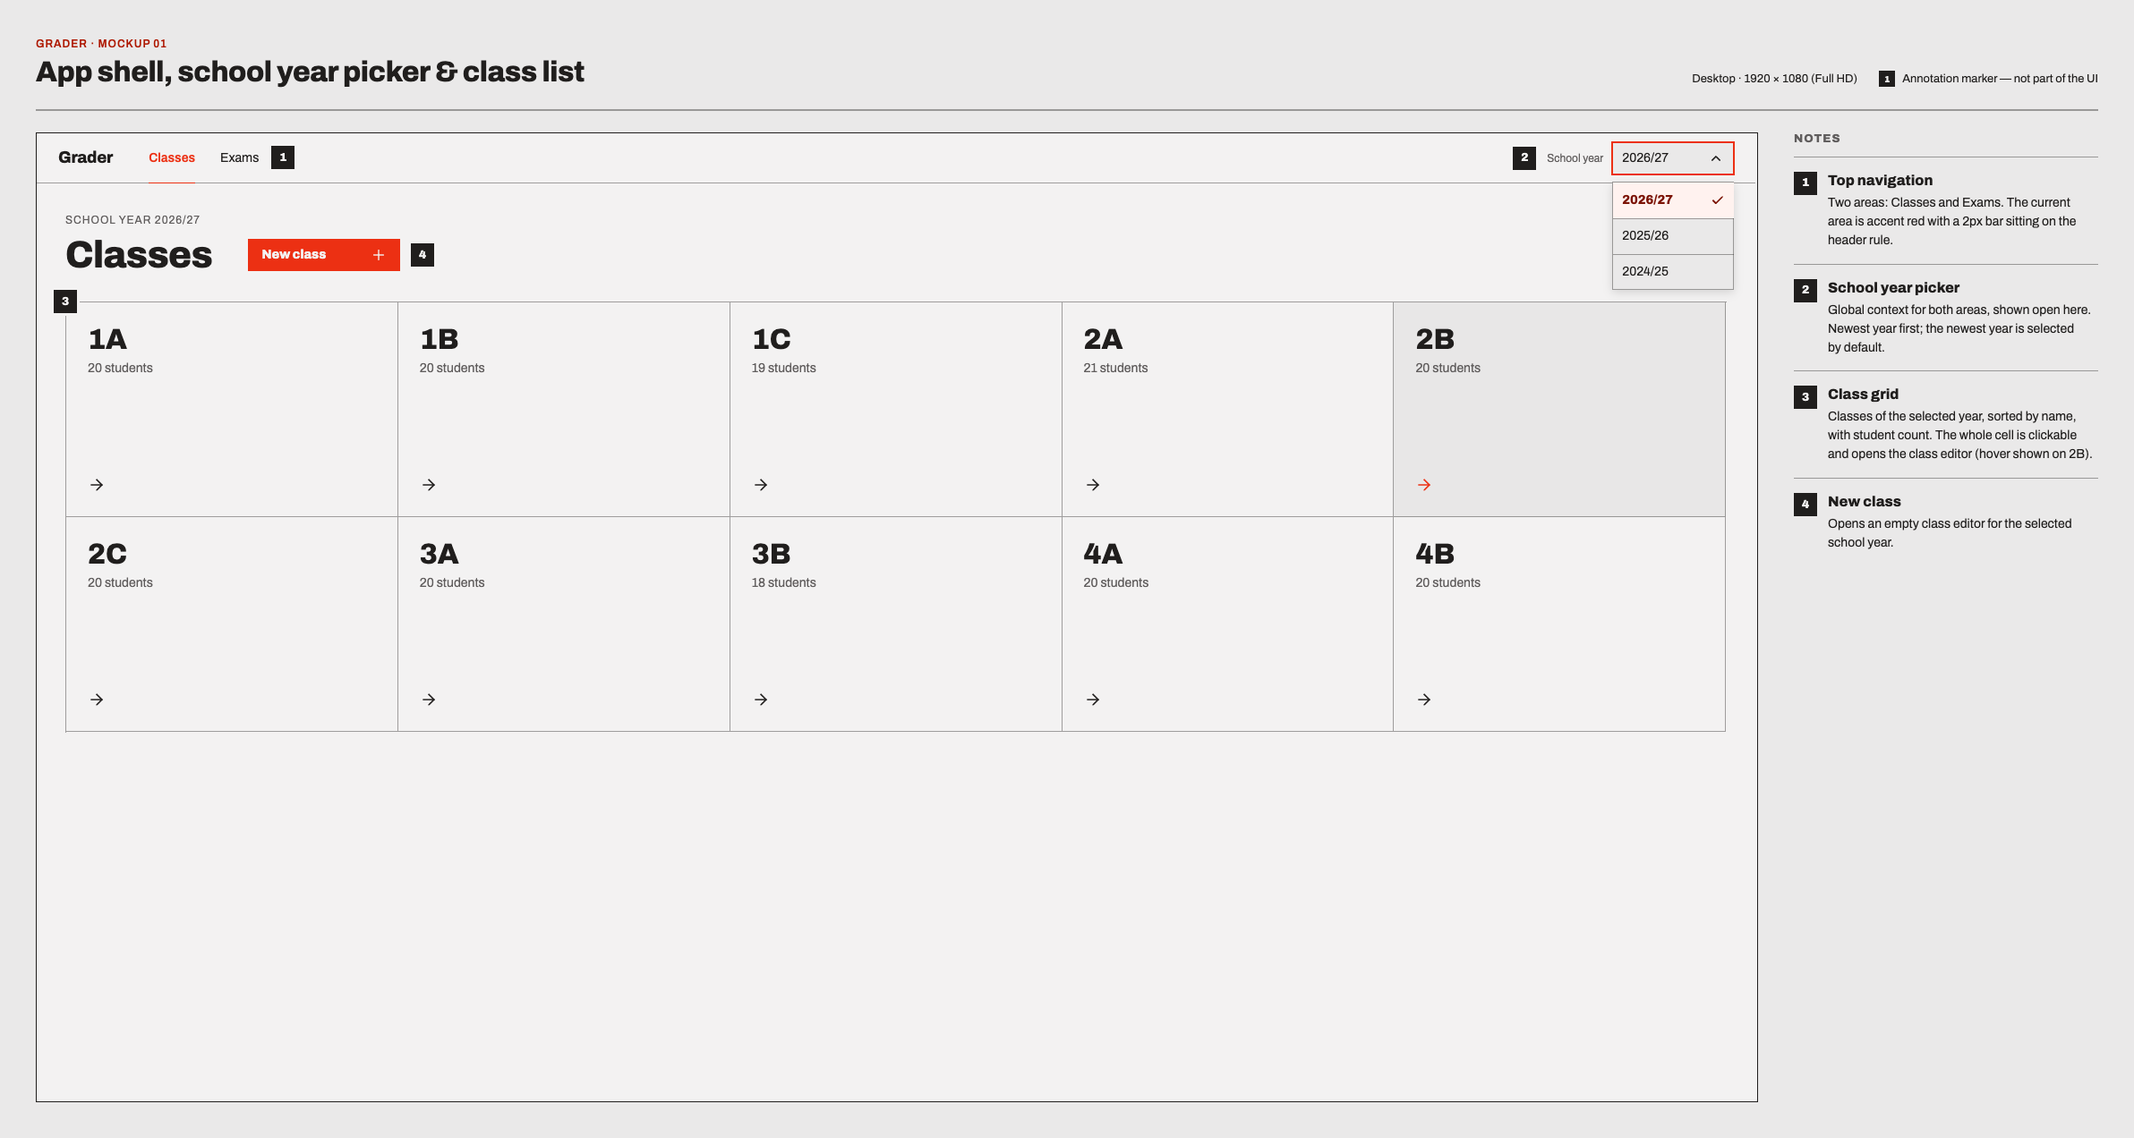
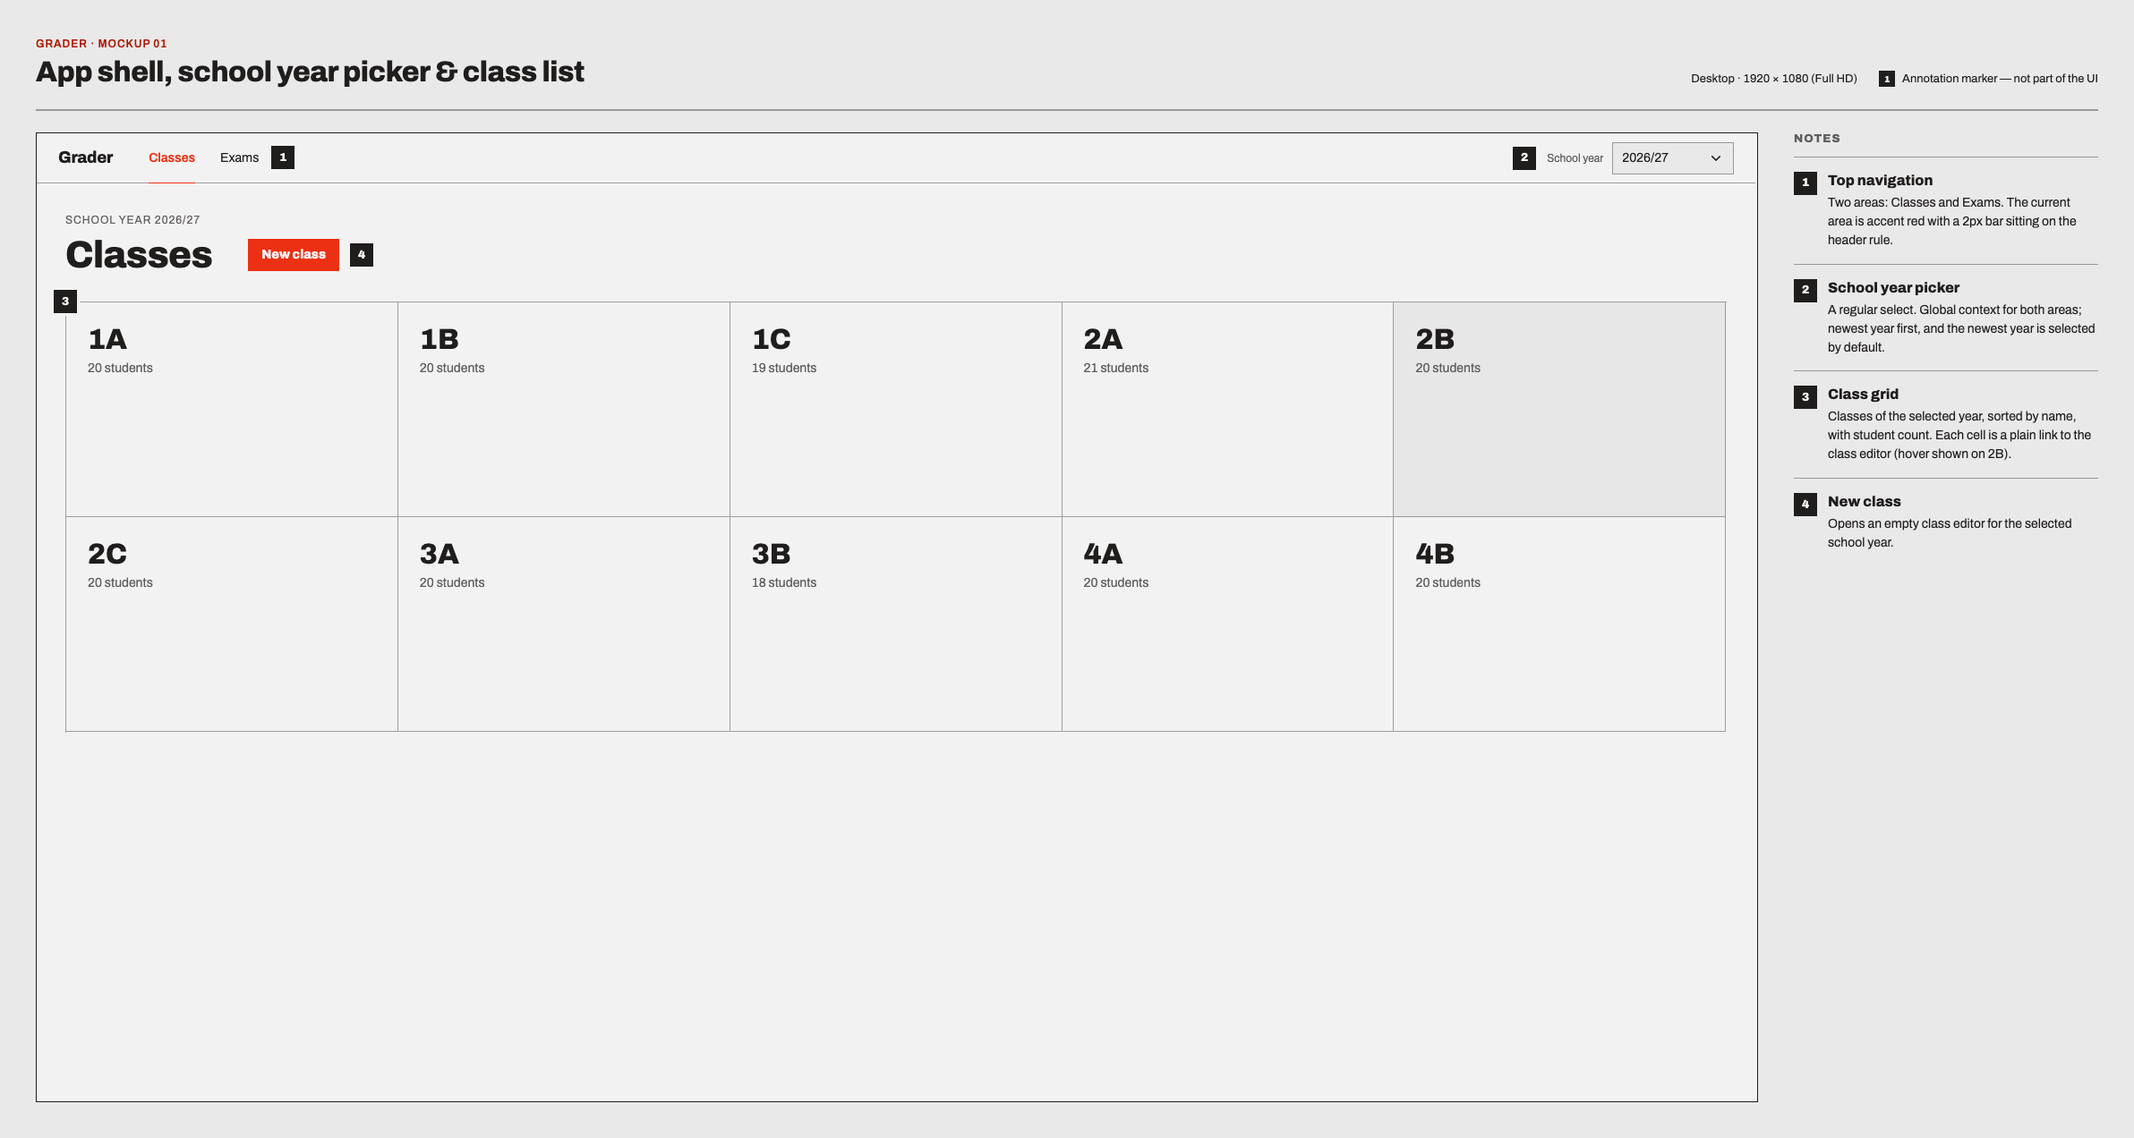
Update design

diff --git a/design/readme.md b/design/readme.md
@@ -1,45 +1,46 @@
 # Grader – UI mockups
 
-Designer handoff for the Grader web UI. Desktop only, designed at **1920 × 1080 (Full HD)**.
+Designer handoff for the Grader web UI (Angular front end, step 7 of the workshop). Desktop only, designed at **1920 × 1080 (Full HD)**.
 
 The black numbered squares on the mockups are **annotations**, not part of the UI. The note with the same number sits in the column to the right of each mockup.
 
 ## Files
 
-| File                  | Content                                                              |
-| --------------------- | -------------------------------------------------------------------- |
-| `00-style-guide.png`  | Colors, type, spacing, icons, components                             |
-| `01-classes.png`      | App shell, school year picker (open), class grid                     |
-| `02-class-editor.png` | Class editor: students grid with a new row and validation errors     |
+| File | Content |
+| --- | --- |
+| `00-style-guide.png` | Colors, type, spacing, icons, components |
+| `01-classes.png` | App shell, school year picker, class grid |
+| `02-class-editor.png` | Class editor: students grid with a new row and validation errors |
 | `03-exam-results.png` | Exams: list filtered by class, results entry with a validation error |
-| `04-loading.png`      | Loading state (skeleton), busy button                                |
-| `05-dark-mode.png`    | Dark mode example (exam results, same layout as 03)                  |
+| `04-loading.png` | Loading state (skeleton), busy button |
+| `05-dark-mode.png` | Dark mode example (exam results, same layout as 03) |
 
 ## Visual principles
 
 - Flat and grid-based: equal-width cells, strong 2px rules between sections and cells.
-- Everything is flush left, including the labels inside buttons (a trailing icon sits on the right).
+- Everything is flush left.
+- **Use the browser's native controls** (`<button>`, `<input>`, `<select>`, `<input type="date">`) styled with the tokens. No custom dropdowns, date pickers or icon decorations.
 - **No rounded corners** anywhere (radius 0).
 - One accent color, used sparingly: primary action, current nav item, focus, errors. Everything else is ink on ground.
-- No shadows, except floating menus (the dropdown).
+- No shadows.
 
 ## Colors
 
-| Role           | Hex                                                         | Suggested CSS variable   | Used for                                                    |
-| -------------- | ----------------------------------------------------------- | ------------------------ | ----------------------------------------------------------- |
-| Ground         | `#F3F2F2`                                                   | `--color-bg`             | Page background, button text on accent                      |
-| Surface        | `#EAE9E9`                                                   | `--color-surface`        | Input fields, dropdown menus                                |
-| Ink            | `#201E1D`                                                   | `--color-text`           | All text and icons                                          |
-| Muted          | `#605D5D`                                                   | `--color-muted`          | Labels, secondary text, column headers                      |
-| Placeholder    | `#7D7979`                                                   | `--color-placeholder`    | Placeholder text ("No result")                              |
-| Divider        | Ink at 40% (`color-mix(in srgb, #201E1D 40%, transparent)`) | `--color-divider`        | All rules and input borders                                 |
-| Skeleton       | `#D7D3D3`                                                   | `--color-skeleton`       | Loading placeholders                                        |
-| Accent         | `#EC3013`                                                   | `--color-accent`         | Primary buttons, current nav item, focus ring, error border |
-| Accent hover   | `#DD2B0F`                                                   | `--color-accent-hover`   | Primary button hover                                        |
-| Accent pressed | `#AE1800`                                                   | `--color-accent-pressed` | Primary button pressed                                      |
-| Accent text    | `#AE1800`                                                   | `--color-error-text`     | Error messages and error counts (small text)                |
-| Accent dark    | `#7C1405`                                                   | `--color-accent-dark`    | Text on accent-tinted fills (selected row, tag)             |
-| Accent tint    | `#FFF2EF`                                                   | `--color-accent-tint`    | Selected list row, "New" tag, open-menu selected item       |
+| Role | Hex | Suggested CSS variable | Used for |
+| --- | --- | --- | --- |
+| Ground | `#F3F2F2` | `--color-bg` | Page background, button text on accent |
+| Surface | `#EAE9E9` | `--color-surface` | Input fields, selects |
+| Ink | `#201E1D` | `--color-text` | All text and icons |
+| Muted | `#605D5D` | `--color-muted` | Labels, secondary text, column headers |
+| Placeholder | `#7D7979` | `--color-placeholder` | Placeholder text ("No result") |
+| Divider | Ink at 40% (`color-mix(in srgb, #201E1D 40%, transparent)`) | `--color-divider` | All rules and input borders |
+| Skeleton | `#D7D3D3` | `--color-skeleton` | Loading placeholders |
+| Accent | `#EC3013` | `--color-accent` | Primary buttons, current nav item, focus ring, error border |
+| Accent hover | `#DD2B0F` | `--color-accent-hover` | Primary button hover |
+| Accent pressed | `#AE1800` | `--color-accent-pressed` | Primary button pressed |
+| Accent text | `#AE1800` | `--color-error-text` | Error messages and error counts (small text) |
+| Accent dark | `#7C1405` | `--color-accent-dark` | Text on the selected list row |
+| Accent tint | `#FFF2EF` | `--color-accent-tint` | Selected list row |
 
 Don't use the accent for small body text; use the accent text color (`#AE1800`) instead.
 
@@ -47,22 +48,21 @@ Don't use the accent for small body text; use the accent text color (`#AE1800`) 
 
 Dark mode changes **only the color tokens**. Layout, type, spacing and components stay exactly the same, so every component has to take its colors from the variables (no hard-coded hex values). Follow the OS setting (`prefers-color-scheme`) by default.
 
-| Role           | Light      | Dark                                                  | Notes                                                      |
-| -------------- | ---------- | ----------------------------------------------------- | ---------------------------------------------------------- |
-| Ground         | `#F3F2F2`  | `#201E1D`                                             | Page background, button text on accent                     |
-| Surface        | `#EAE9E9`  | `#2D2B2B`                                             | Inputs, menus; lighter than the ground                     |
-| Ink            | `#201E1D`  | `#F3F2F2`                                             | All text and icons                                         |
-| Muted          | `#605D5D`  | `#BAB6B6`                                             | Labels, secondary text                                     |
-| Placeholder    | `#7D7979`  | `#9B9797`                                             | "No result"                                                |
-| Divider        | Ink at 40% | `#F3F2F2` at 32%                                      | All rules and input borders                                |
-| Skeleton       | `#D7D3D3`  | `#444141`                                             | Loading placeholders                                       |
-| Accent         | `#EC3013`  | `#FF563C`                                             | One step lighter to keep contrast on dark                  |
-| Accent hover   | `#DD2B0F`  | `#FF9783`                                             | On dark, hover and pressed get lighter, not darker         |
-| Accent pressed | `#AE1800`  | `#FFC4B8`                                             |                                                            |
-| Error text     | `#AE1800`  | `#FF9783`                                             | Error messages and counts                                  |
-| Accent tint    | `#FFF2EF`  | `#4D170E`                                             | Selected row, "New" tag                                    |
-| Accent dark    | `#7C1405`  | `#FFC4B8`                                             | Text on accent tint                                        |
-| Menu shadow    | ink shadow | 1px edge `#F3F2F2` at 12% + `0 6px 16px` black at 50% | Shadows are hard to see on dark, so menus also get an edge |
+| Role | Light | Dark | Notes |
+| --- | --- | --- | --- |
+| Ground | `#F3F2F2` | `#201E1D` | Page background, button text on accent |
+| Surface | `#EAE9E9` | `#2D2B2B` | Inputs, selects; lighter than the ground |
+| Ink | `#201E1D` | `#F3F2F2` | All text and icons |
+| Muted | `#605D5D` | `#BAB6B6` | Labels, secondary text |
+| Placeholder | `#7D7979` | `#9B9797` | "No result" |
+| Divider | Ink at 40% | `#F3F2F2` at 32% | All rules and input borders |
+| Skeleton | `#D7D3D3` | `#444141` | Loading placeholders |
+| Accent | `#EC3013` | `#FF563C` | One step lighter to keep contrast on dark |
+| Accent hover | `#DD2B0F` | `#FF9783` | On dark, hover and pressed get lighter, not darker |
+| Accent pressed | `#AE1800` | `#FFC4B8` | |
+| Error text | `#AE1800` | `#FF9783` | Error messages and counts |
+| Accent tint | `#FFF2EF` | `#4D170E` | Selected list row |
+| Accent dark | `#7C1405` | `#FFC4B8` | Text on accent tint |
 
 ```css
 @media (prefers-color-scheme: dark) {
@@ -86,29 +86,38 @@ Dark mode changes **only the color tokens**. Layout, type, spacing and component
 
 ## Typography
 
-Font: **Archivo** (Google Fonts), weights 400, 600, 800. One family for headings and body.
+Font: **Archivo**, weights 400, 600, 800. One family for headings and body.
 
-```html
-<link
-  href="https://fonts.googleapis.com/css2?family=Archivo:wght@400;600;800&display=swap"
-  rel="stylesheet"
-/>
+Load it locally from npm (no dependency on the Google Fonts CDN or the network at runtime):
+
+```bash
+npm install @fontsource/archivo
 ```
 
-| Style              | Size / weight                                       | Extra                                     | Example                     |
-| ------------------ | --------------------------------------------------- | ----------------------------------------- | --------------------------- |
-| Page title         | 42px / 800                                          | line-height 1.12, letter-spacing −0.015em | "Classes"                   |
-| Detail title       | 32px / 800                                          | same                                      | "Computer Science"          |
-| Cell title         | 32px / 800                                          | line-height 1.1                           | "2B"                        |
-| Section            | 20px / 800                                          |                                           | "Students", "Results"       |
-| Brand              | 18px / 800                                          |                                           | "Grader"                    |
-| Body               | 15px / 400                                          | line-height 1.55                          | Student names               |
-| Input, button, nav | 14px / 400 (buttons 800)                            |                                           | Field values                |
-| Small              | 13px / 400                                          |                                           | Breadcrumb, dates in lists  |
-| Label              | 12px / 400, muted                                   |                                           | Field labels ("Class name") |
-| Overline           | 12px / 400, uppercase, letter-spacing 0.08em, muted |                                           | "SCHOOL YEAR 2026/27"       |
-| Column header      | 11px / 400, uppercase, letter-spacing 0.08em, muted |                                           | "LAST NAME"                 |
-| Error message      | 12px / 600, accent text                             | 14px icon before it                       | "Last name is required"     |
+In `src/styles.css`:
+
+```css
+@import '@fontsource/archivo/400.css';
+@import '@fontsource/archivo/600.css';
+@import '@fontsource/archivo/800.css';
+
+body { font-family: 'Archivo', system-ui, sans-serif; }
+```
+
+| Style | Size / weight | Extra | Example |
+| --- | --- | --- | --- |
+| Page title | 42px / 800 | line-height 1.12, letter-spacing −0.015em | "Classes" |
+| Detail title | 32px / 800 | same | "Computer Science" |
+| Cell title | 32px / 800 | line-height 1.1 | "2B" |
+| Section | 20px / 800 | | "Students", "Results" |
+| Brand | 18px / 800 | | "Grader" |
+| Body | 15px / 400 | line-height 1.55 | Student names |
+| Input, button, nav | 14px / 400 (buttons 800) | | Field values |
+| Small | 13px / 400 | | Breadcrumb, dates in lists |
+| Label | 12px / 400, muted | | Field labels ("Class name") |
+| Overline | 12px / 400, uppercase, letter-spacing 0.08em, muted | | "SCHOOL YEAR 2026/27" |
+| Column header | 11px / 400, uppercase, letter-spacing 0.08em, muted | | "LAST NAME" |
+| Error message | 12px / 600, accent text | | "Last name is required" |
 
 Numbers use tabular figures (`font-variant-numeric: tabular-nums`), and percentages are right-aligned.
 
@@ -127,48 +136,62 @@ Numbers use tabular figures (`font-variant-numeric: tabular-nums`), and percenta
 - 2px rule (`--color-divider`): below the header, between page sections, between grid cells, under column headers
 - 1px rule (`--color-divider`): between table/list rows, input borders
 - Radius: 0 everywhere
-- Menu shadow (dropdown only): `0 3px 10px color-mix(in srgb, #2D2B2B 16%, transparent)`
+- No shadows
 
 ## Components
 
-**Buttons** — 14px / 800, padding 8px 14px, min-height 36px, label flush left, optional trailing 16–18px icon pushed to the right edge.
+All controls are native HTML elements, styled with the tokens.
 
-| Variant         | Style                                                                      |
-| --------------- | -------------------------------------------------------------------------- |
-| Primary         | Accent background, ground-colored text; hover `#DD2B0F`, pressed `#AE1800` |
-| Secondary       | Transparent, 1px divider border; hover ink at 7%, pressed ink at 14%       |
-| Ghost           | Transparent, accent text, leading icon; hover accent at 10%                |
-| Icon            | 36 × 36, transparent, 18px icon (e.g. remove row)                          |
-| Disabled / busy | 45% opacity, not clickable; busy label "Saving…"                           |
+**Buttons** — `<button>`, 14px / 800, padding 8px 14px, min-height 36px, text only (no icons). Width fits the label.
 
-**Text field** — Surface background, 1px divider border, min-height 36px, padding 6px 10px, 14px text. Label above it (12px muted, 5px gap).
+| Variant | Style | Used for |
+| --- | --- | --- |
+| Primary | Accent background, ground-colored text; hover `#DD2B0F`, pressed `#AE1800` | Save, New class, New exam |
+| Secondary | Transparent, 1px divider border; hover ink at 7%, pressed ink at 14% | Cancel, Add student |
+| Ghost | Transparent, accent text; hover accent at 10% | Delete class / exam |
+| Icon | 36 × 36, transparent, × icon | Remove student row (the only icon in the app) |
+| Disabled / busy | 45% opacity, not clickable; busy label "Saving…" | While saving |
 
+**Text field** — `<input>`, surface background, 1px divider border, min-height 36px, padding 6px 10px, 14px text. Label above it (12px muted, 5px gap).
 - Hover: border ink at 45%
-- Focus: accent border + 2px accent outline, accent caret
-- Error: 2px accent border, error message below (4px gap)
+- Focus: accent border + 2px accent outline
+- Error: 2px accent border, error message below (4px gap), no icon
 
-**Select / date field** — Same as text field with a trailing chevron-down / calendar icon (18px).
+**Select** — Native `<select>` with the same styling as the text field. The browser draws the arrow and the open list.
 
-**Percentage field** — Text field 104px wide, right-aligned value, "%" suffix outside the field (muted). Empty shows the placeholder "No result". Accepts decimals, range 0–100.
+**Date field** — Native `<input type="date">` with the same styling. The browser draws the calendar icon and picker.
 
-**Dropdown menu** — Surface background, 1px divider border, menu shadow. Items 40px high, 1px rules between them. The selected item is bold on the accent tint, with a check icon on the right.
+**Percentage field** — `<input type="number" min="0" max="100" step="any">`, 104px wide, right-aligned value, "%" as plain text after the field (muted). Empty shows the placeholder "No result".
 
-**Tag** — 11px / 600, padding 3px 10px, accent tint background, accent dark text. Used for "New" on unsaved rows.
+**Nav item** — `<a>`, 14px ink. The current item is accent, weight 600, with a 2px accent bottom border that sits on the header's rule.
 
-**Nav item** — 14px ink. The current item is accent, weight 600, with a 2px accent bar that sits on the header's bottom rule.
+**List row (exam list)** — `<a>`, padding 10px 12px, date (13px muted) above course (15px / 600), 1px rule below. Selected: accent tint background, accent dark text, course 800.
 
-**List row (exam list)** — Padding 10px 12px, date (13px muted) above course (15px / 600), 1px rule below. Selected: accent tint background, accent dark text, course 800.
+**Class cell** — `<a>`, class name 32px / 800, student count 14px muted. Hover: ink at 5% background.
 
-**Class cell** — Class name 32px / 800, student count 14px muted, arrow-right icon at the bottom. The whole cell is a link. Hover: ink at 5% background, accent arrow.
+**Error summary** — Text next to the Save button, e.g. "2 fields need attention", 13px / 600, error text color.
 
-**Error summary** — Next to the Save button: circle-alert icon + "2 fields need attention", 13px / 600, accent text.
-
-**Skeleton** — Flat `#D7D3D3` blocks with the size of the real content (e.g. 56 × 32 for a class name, 96 × 12 for a count). No animation required.
+**Skeleton** — Flat `#D7D3D3` blocks the size of the real content (e.g. 56 × 32 for a class name, 96 × 12 for a count). No animation.
 
 ## Icons
 
-[Lucide](https://lucide.dev), 20px, stroke width 2, `currentColor`.
-Used: `menu`, `chevron-down`, `chevron-right`, `plus`, `x`, `trash-2`, `circle-alert`, `arrow-right`, `check`, `calendar`.
+Only one: × for removing a student row. Lucide `x`, 18px, stroke width 2, `currentColor`, via [lucide-angular](https://lucide.dev/guide/packages/lucide-angular) (bundled, no network at runtime):
+
+```bash
+npm install lucide-angular
+```
+
+```ts
+import { LucideAngularModule, XIcon } from 'lucide-angular';
+
+@Component({
+  imports: [LucideAngularModule],
+  template: `<button class="btn btn-icon" aria-label="Remove student">
+               <lucide-icon [img]="XIcon" [size]="18" [strokeWidth]="2" />
+             </button>`,
+})
+export class StudentRow { readonly XIcon = XIcon; }
+```
 
 ## Interaction states
 
